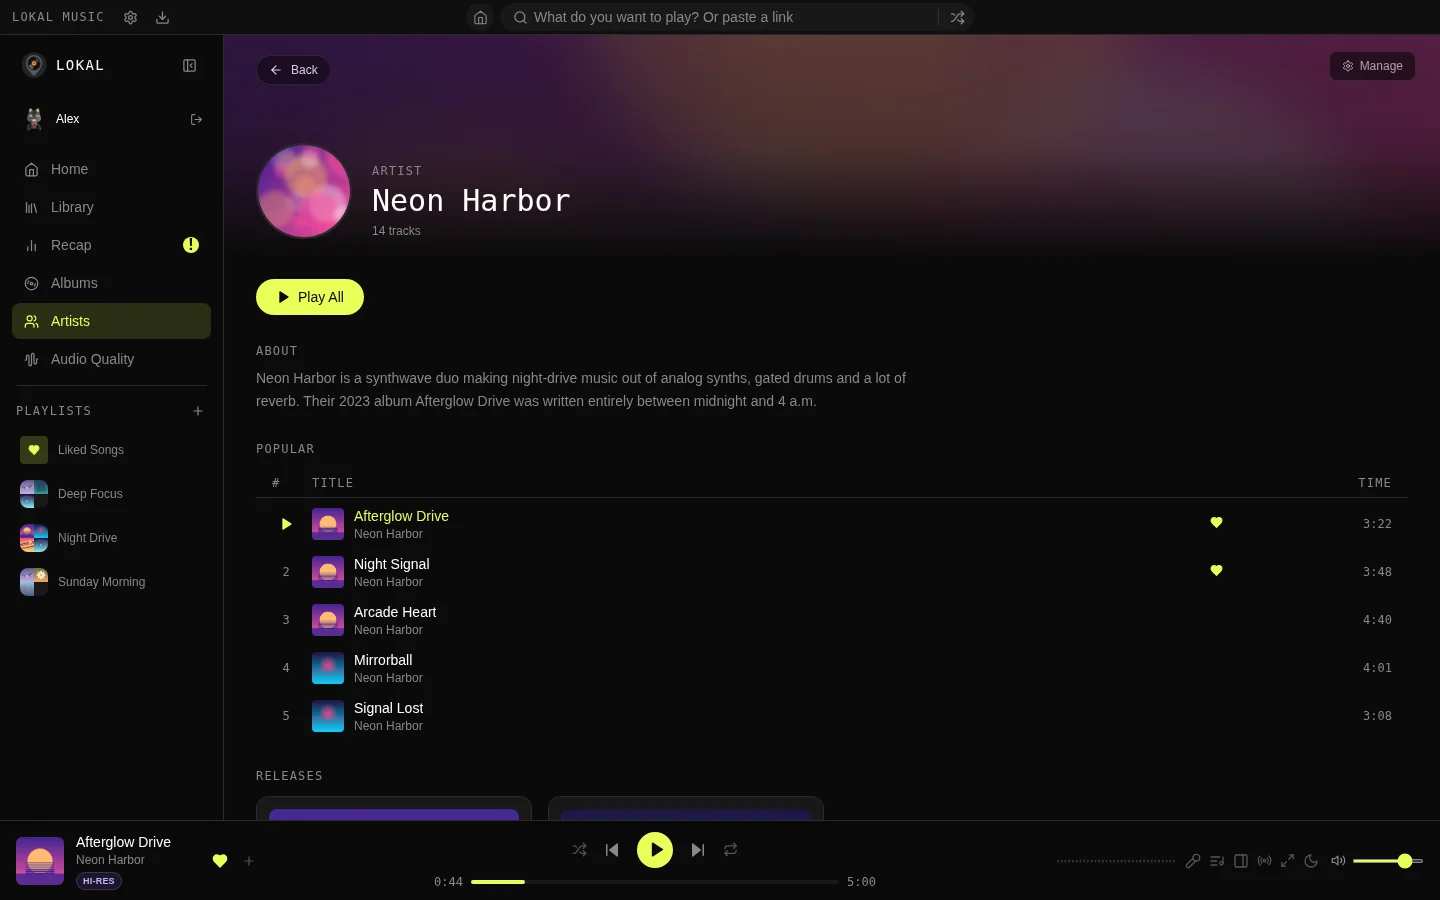
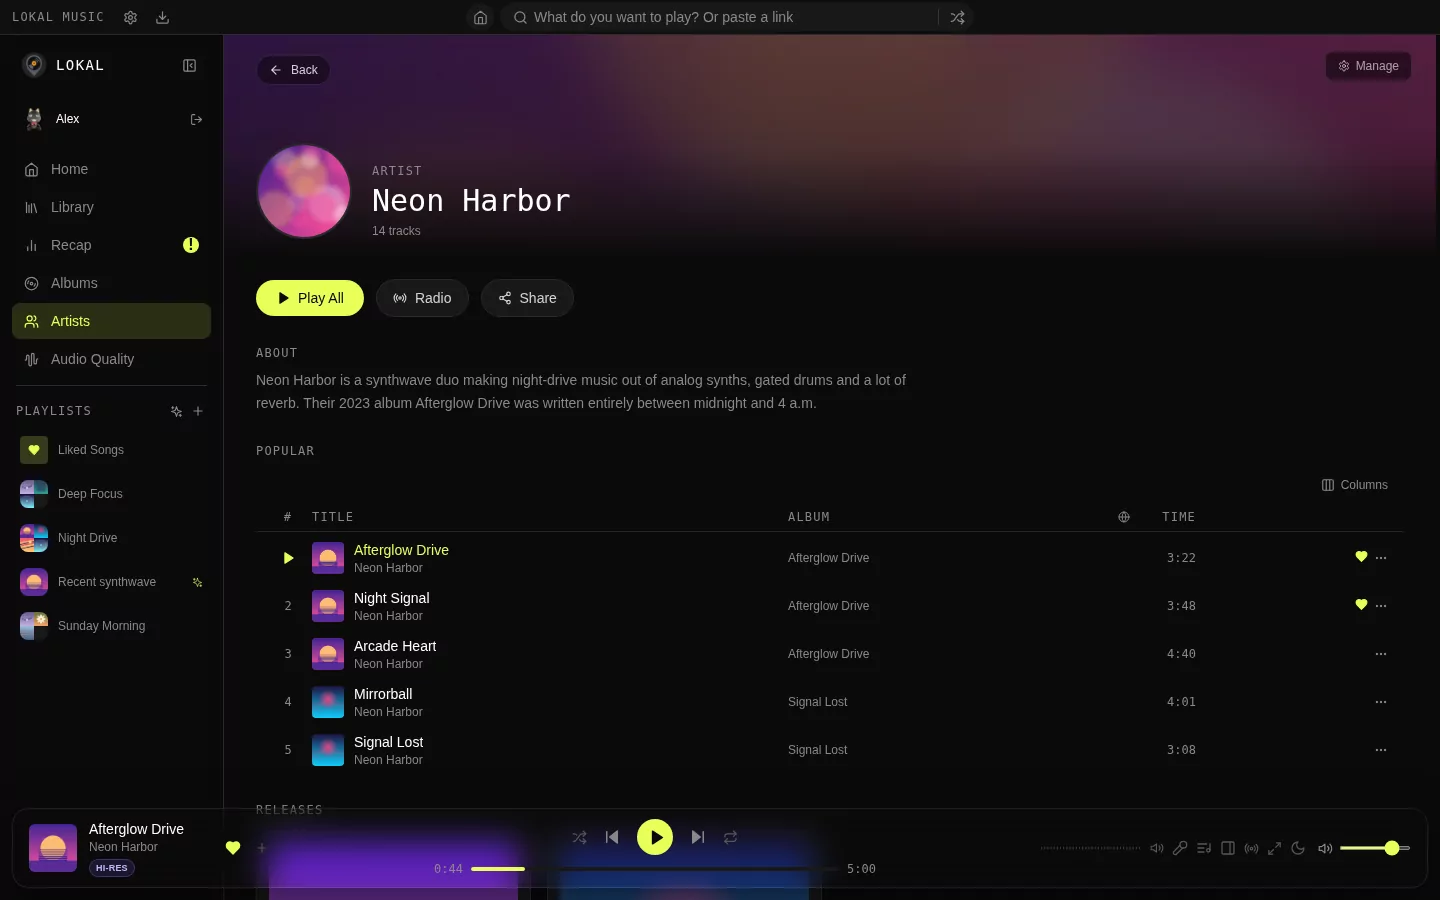
README: retake screenshots with the current UI and glass player bar; add Discovery, Mix, smart playlist and share card shots
Claude-Session: https://claude.ai/code/session_01JvHuaanWfVsNCNjKEu59g3

diff --git a/README.md b/README.md
@@ -168,7 +168,7 @@ Know what you're actually listening to:
 
 | Smart playlists | Share cards |
 |---|---|
-| ![A smart playlist's rules: Synthwave from 2022 or later, never played, in random order](docs/screenshots/smart.webp) | ![The share card for the Night Drive playlist](docs/screenshots/share.webp) |
+| ![A smart playlist's rules: Synthwave from 2022 or later, in random order](docs/screenshots/smart.webp) | ![The share card for the Night Drive playlist](docs/screenshots/share.webp) |
 
 - **Smart playlists** are made of rules instead of a list, and update themselves as your library and listening change: genre, artist, album, title, folder, year, date added, last played, plays, liked, length, quality and source. Match all or any of them, pick an order (random included) and an optional limit. A live count shows what the rules give before you save. Create one with the ✨ button next to Playlists.
 - **Share cards** turn a playlist, an artist or a recap into one picture (1080×1350, the size social apps show in full) with its covers, numbers and top songs. Copy it or save it from the **Share** button.
